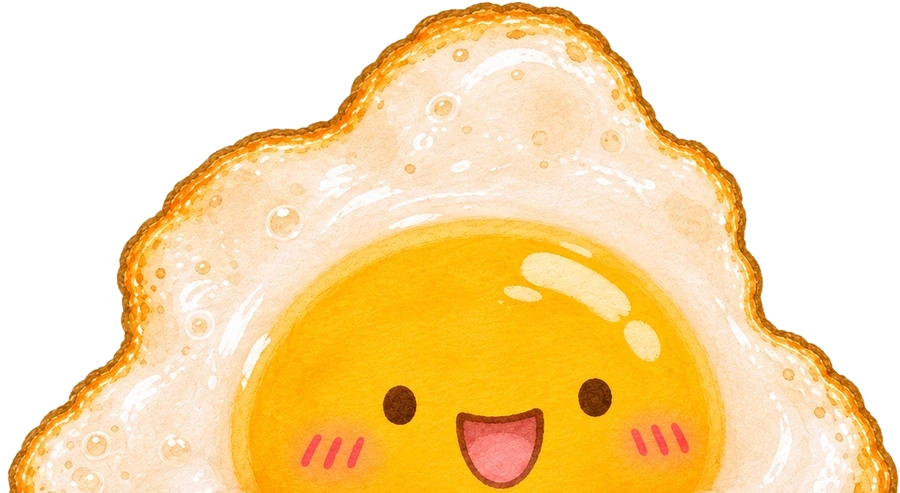
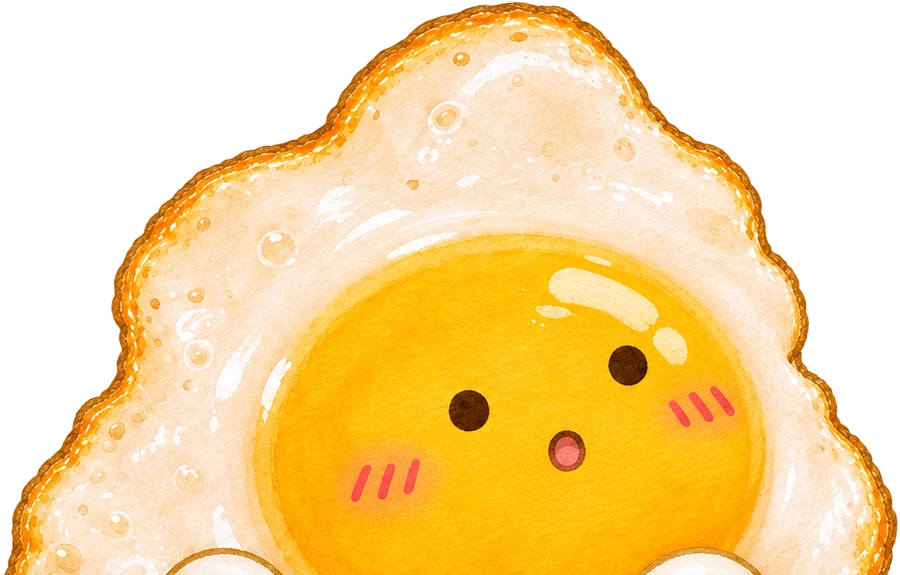
New egg poses from pose-set-v2: super-flight sprite (mirrored) for the basket-to-sight-point parabola, sprite swaps back to the catch-fall image after the exit; new peeking sprite behind the p1b card; tools/prepare_poses.py

diff --git a/src/components/kitchen/Egg.tsx b/src/components/kitchen/Egg.tsx
@@ -97,8 +97,16 @@ export const HANDOFF = { straighten: [0, 0.35], panelIn: [0.47, 0.5], swap: 0.5,
  * box：表情图在蛋的布局框（eggSize，脚底 = 底边中点）里的位置和大小（场景像素）。表情图的身体姿态和透明边距
  * 与原图不同时用它把图里的接触点放到脚底、外轮廓宽度对齐原图；不给就和原图一样铺满布局框。
  */
-export type EggFaces = { fly?: string | null; rest?: string | null; box?: { left: number; top: number; width: number; height: number } };
-type Face = "base" | "fly" | "rest";
+export type EggFaces = {
+  fly?: string | null;
+  rest?: string | null;
+  box?: { left: number; top: number; width: number; height: number };
+  /** 超人飞行姿势（朝右上；水平镜像后用于 L → M → E 的抛物线）：图、摆放框（蛋布局框像素）、镜像轴（质心，图内百分比） */
+  soar?: string | null;
+  soarBox?: { left: number; top: number; width: number; height: number };
+  soarPivot?: [number, number];
+};
+type Face = "base" | "fly" | "rest" | "soar";
 export type EggTraj = { L: Pt; M: Pt; E: Pt; R: Pt; C: Pt; sM: number; sE: number; sR: number; scaleL: number; scaleC: number; tiltC: number };
 const span = (v: number, [a, b]: readonly [number, number]) => clamp01((v - a) / (b - a));
 export const DEFAULT_EGG_ANCHORS: EggAnchors = {
@@ -218,6 +226,8 @@ export function trajFoot(T: EggTraj, s: number): Pt {
   return { x: R.x + (C.x - R.x) * u, y: R.y + (C.y - R.y) * u * u };
 }
 /** 平飞段的参数：匀速为主，起步和收尾各缓一点 */
+/** 抛物线飞行时身体倾斜的倍数：超人姿势图本身已朝飞行方向倾斜，切线只再叠加一部分 */
+const LEAN = 0.35;
 /** 抛物线拱高（场景像素）：随水平距离，至少 40 */
 const flyArch = (T: EggTraj) => 40 + 0.25 * Math.abs(T.M.x - T.L.x);
 function trajPose(T: EggTraj, s: number): Pose {
@@ -230,7 +240,7 @@ function trajPose(T: EggTraj, s: number): Pose {
     const tx = T.M.x - T.L.x, ty = T.M.y - T.L.y - 4 * (1 - 2 * v) * flyArch(T);
     const ang = Math.max(-80, Math.min(80, (Math.atan2(tx, -ty) * 180) / Math.PI));
     const sm = (q: number) => { const c = clamp01(q); return c * c * (3 - 2 * c); };
-    lean = ang * sm(v / 0.1) * (1 - sm((v - 0.85) / 0.15));
+    lean = LEAN * ang * sm(v / 0.1) * (1 - sm((v - 0.85) / 0.15));
   }
   return { x: f.x - REST.x, y: f.y - REST.y, scale: T.scaleL + (T.scaleC - T.scaleL) * u, rotation: T.tiltC * u + lean };
 }
@@ -379,6 +389,8 @@ function createJumpController(env: JumpEnv) {
       st.stepT = now;
     }
     const p = trajPose(T, x);
+    // 腾空：L → M → E（出画前）用超人飞行姿势，之后（R → C，朝妈妈下落）换回 fly 图
+    env.live.current.setFace(x < T.sE && !env.live.current.reduced ? "soar" : "fly");
     gsap.set(w, { x: p.x, y: p.y, scale: p.scale, rotation: p.rotation, transformOrigin: "50% 100%", overwrite: true });
     dotAt(p.x + REST.x, p.y + REST.y);
   };
@@ -550,11 +562,12 @@ export default function Egg({ src = "/assets/scene/egg.webp", anchors, direct = 
   // ---- 表情：直接切换（不做交叉淡化，任何时刻只显示一张脸） ----
   // fly：接蛋飞行途中（滚动控制）；rest：由落铲那一次真实时间事件在压缩到底时切换，不跟滚动快慢走；其余用原图
   const faceNow = useRef<Face>("base");
+  const soarImgRef = useRef<HTMLImageElement>(null);
   const restArmed = useRef(false); // 本次落铲事件已切到 rest
   const setFace = (f: Face) => {
     const want: Face = f !== "base" && !faces?.[f] ? "base" : f;
     faceNow.current = want;
-    const els: [Face, HTMLImageElement | null][] = [["base", baseImgRef.current], ["fly", flyImgRef.current], ["rest", restImgRef.current]];
+    const els: [Face, HTMLImageElement | null][] = [["base", baseImgRef.current], ["fly", flyImgRef.current], ["rest", restImgRef.current], ["soar", soarImgRef.current]];
     for (const [k, el] of els) if (el) el.style.visibility = k === want ? "visible" : "hidden";
   };
   const onSpatula = P.station === "spatula";
@@ -803,6 +816,10 @@ export default function Egg({ src = "/assets/scene/egg.webp", anchors, direct = 
           {faces?.fly && (
             // eslint-disable-next-line @next/next/no-img-element
             <img ref={flyImgRef} src={faces.fly} alt="" draggable={false} className={`absolute select-none ${faces.box ? "" : "inset-0 h-full w-full"}`} style={{ visibility: "hidden", maxWidth: "none", ...faces.box }} />
+          )}
+          {faces?.soar && faces.soarBox && (
+            // eslint-disable-next-line @next/next/no-img-element
+            <img ref={soarImgRef} src={faces.soar} alt="" draggable={false} className="absolute select-none" style={{ visibility: "hidden", maxWidth: "none", ...faces.soarBox, transform: "scaleX(-1)", transformOrigin: `${faces.soarPivot?.[0] ?? 50}% ${faces.soarPivot?.[1] ?? 50}%` }} />
           )}
           {faces?.rest && (
             // eslint-disable-next-line @next/next/no-img-element

diff --git a/src/app/preview/visual/ComicLayer.tsx b/src/app/preview/visual/ComicLayer.tsx
@@ -144,7 +144,7 @@ function Panel({ p, k, opacity, exitShift, seamProgress, place }: { p: PanelSpec
 }
 
 /**
- * 蛋从漫画格右上角后面偷偷、慢慢探出头（egg-peek.webp = egg-on-panel 去掉手臂、只留上 70%，底边是平切的，
+ * 蛋从漫画格右上角后面偷偷、慢慢探出头（egg-peek.webp = pose-set-v2 05-peeking/variant-01（偷看、眼睛朝右；tools/prepare_poses.py 抠图并去掉底部小手），底边是平切的，
  * 所以必须一直藏在格子后面：最高探到蛋图底边刚好在格子上沿以下）。画格有 overflow: hidden，所以蛋是格子旁边的独立元素
  * （DOM 里排在格子前面 = 画在格子后面），位置按格子的 pos / dy 算（vw / vh）。
  * 纵深：① 蛋在墙上的投影（drop-shadow，蛋离开墙面一点）；② 格子在蛋身上的投影（同一张图压暗、按高度渐隐，
@@ -152,7 +152,7 @@ function Panel({ p, k, opacity, exitShift, seamProgress, place }: { p: PanelSpec
  * 探头：向右倾 PEEK.tilt 度（身体朝角外探），0 → 探出 1.8 s 缓出，离场 0.3 s 缩回；探出后轻微起伏。
  */
 const PERCH_PANEL = "p1b"; // bag 段右侧小格：上方没有别的格子，蛋有地方；也就是“袋子”那格
-const PEEK = { cx: 0.64, width: 0.62, aspect: 900 / 493, tilt: 6, sink: 0.045 };
+const PEEK = { cx: 0.64, width: 0.5, aspect: 1.5651, tilt: 6, sink: 0.045 };
 function PerchEgg({ pos, dy, show }: { pos: Place; dy: number; show: boolean }) {
   const eggH = (pos.w * PEEK.width) / PEEK.aspect; // 蛋高（vw）
   const rest = 100 - (PEEK.sink * pos.w * 100) / eggH; // 探出后的 translateY 百分比（蛋底边下沉 sink·格宽）

diff --git a/src/app/preview/visual/page.tsx b/src/app/preview/visual/page.tsx
@@ -146,7 +146,7 @@ function StageV2() {
             </>
           }
         >
-          <KitchenCharacters eggAnchors={anchors} eggFaces={eggFacesFor(cfg)} direct />
+          <KitchenCharacters eggAnchors={anchors} eggFaces={{ ...eggFacesFor(cfg), soar: BG.anchors.eggSoar.src, soarBox: BG.anchors.eggSoar.box, soarPivot: BG.anchors.eggSoar.pivot as [number, number] }} direct />
         </KitchenScene>
       </div>
       <SearchBackdrop />

diff --git a/tools/prepare_poses.py b/tools/prepare_poses.py
@@ -1,0 +1,73 @@
+#!/usr/bin/env python3
+"""新蛋姿势（用户 2026-11-15 交付，pose-set-v2，白底）抠成透明 PNG/WebP，并算出和原蛋对齐的摆放框。
+
+  soar  超人飞行（03-super-flight/variant-02）：画面朝右上，页面里水平镜像后用于篮沿 → 妈妈视线点的抛物线（Egg faces.soar）
+  peek  探头（05-peeking/variant-01）：水平裁口，只用上 88%（底部小手被裁掉），在漫画格后面升起（ComicLayer PerchEgg）
+
+抠图：白底（近白且与边界相连）去掉，边缘 5×5 羽化；不重画。
+摆放框：和 public/assets/scene/egg.webp 对齐——按“透明度面积”的平方根取缩放（含手脚的整体大小一致），再让两者的质心重合；
+打印的数值填 slots.json egg.faces.soar（box 单位 = 蛋布局框像素）。
+
+Run:  python3 tools/prepare_poses.py
+"""
+from pathlib import Path
+
+import cv2
+import numpy as np
+from PIL import Image
+from scipy import ndimage
+
+ROOT = Path(__file__).resolve().parents[1]
+SRC = Path("/Users/mac/Documents/Codex/2026-11-14/new-chat-2/mom-egg-rice-comic/animation-assets/egg-poses/pose-set-v2")
+OUT = ROOT / "public/assets/scene"
+LAYOUT = (388, 388)  # src/lib/scene.ts ANCHORS.eggSize（蛋布局框）
+
+
+def cutout(path: Path) -> np.ndarray:
+    rgb = np.asarray(Image.open(path).convert("RGB")).astype(np.float32)
+    white = (rgb[..., 0] > 238) & (rgb[..., 1] > 238) & (rgb[..., 2] > 236)
+    lab, _ = ndimage.label(white)
+    edge = set(np.unique(np.concatenate([lab[0], lab[-1], lab[:, 0], lab[:, -1]]))) - {0}
+    fg = ~np.isin(lab, list(edge))
+    fg = ndimage.binary_opening(fg, iterations=1)
+    lab2, n = ndimage.label(fg)
+    sizes = ndimage.sum(fg, lab2, range(1, n + 1))
+    fg = lab2 == (int(np.argmax(sizes)) + 1)
+    fg = ndimage.binary_fill_holes(fg) | fg
+    a = cv2.GaussianBlur(fg.astype(np.float32), (5, 5), 0)
+    return np.dstack([rgb, a * 255]).astype(np.uint8)
+
+
+def stats(rgba: np.ndarray):
+    a = rgba[..., 3].astype(np.float32) / 255
+    ys, xs = np.mgrid[0 : a.shape[0], 0 : a.shape[1]]
+    area = a.sum()
+    return area, (xs * a).sum() / area, (ys * a).sum() / area
+
+
+def main() -> None:
+    # 原蛋
+    base = np.asarray(Image.open(OUT / "egg.webp").convert("RGBA"))
+    Ab, cxb, cyb = stats(base)
+    bh, bw = base.shape[:2]
+
+    soar = cutout(SRC / "03-super-flight/variant-02.png")
+    As, cxs, cys = stats(soar)
+    k = (LAYOUT[0] / bw) * np.sqrt(Ab / As)  # 蛋布局框像素 / 姿势图像素
+    side = soar.shape[1] * k
+    box = dict(left=round(LAYOUT[0] * cxb / bw - cxs * k, 1), top=round(LAYOUT[1] * cyb / bh - cys * k, 1), width=round(side, 1), height=round(soar.shape[0] * k, 1))
+    pivot = (round(cxs / soar.shape[1] * 100, 2), round(cys / soar.shape[0] * 100, 2))
+    Image.fromarray(soar).resize((800, round(800 * soar.shape[0] / soar.shape[1])), Image.LANCZOS).save(OUT / "egg-soar.webp", "WEBP", quality=90, method=6)
+    print(f"egg-soar.webp  box={box}  mirror pivot={pivot}% (质心)")
+
+    peek = cutout(SRC / "05-peeking/variant-01.png")
+    ys, xs = np.where(peek[..., 3] > 5)
+    x0, y0, x1, y1 = xs.min(), ys.min(), xs.max() + 1, ys.max() + 1
+    h = round((y1 - y0) * 0.88)  # 去掉底部小手
+    crop = peek[y0 : y0 + h, x0:x1]
+    Image.fromarray(crop).resize((900, round(900 * crop.shape[0] / crop.shape[1])), Image.LANCZOS).save(OUT / "egg-peek.webp", "WEBP", quality=92, method=6)
+    print(f"egg-peek.webp  aspect={crop.shape[1] / crop.shape[0]:.4f}")
+
+
+if __name__ == "__main__":
+    main()
